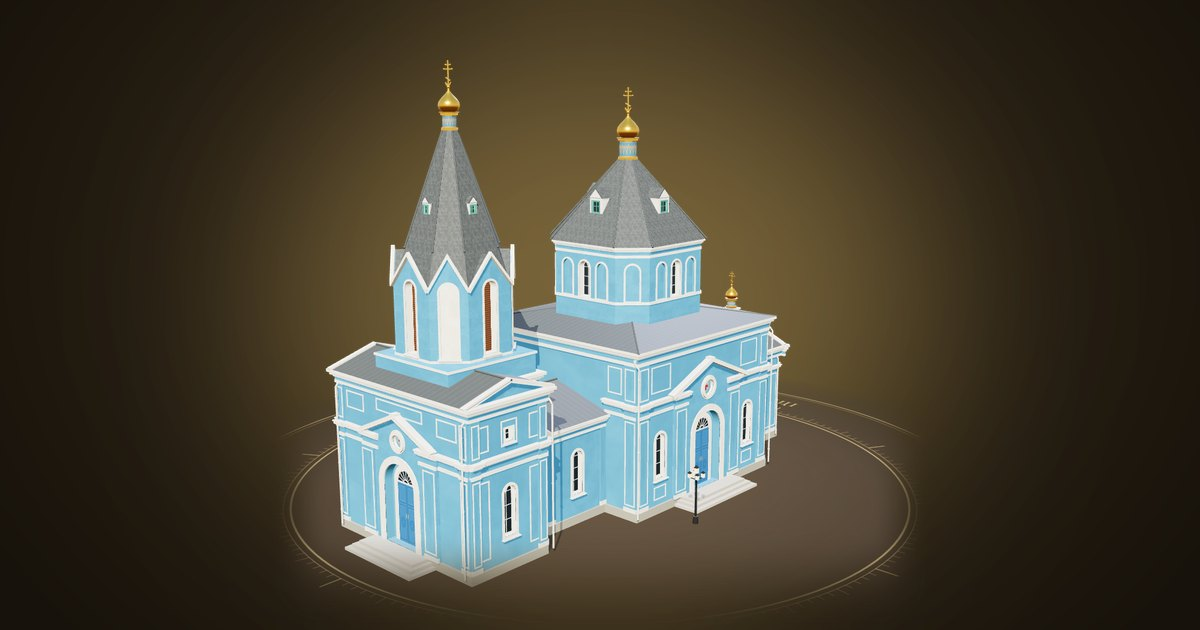
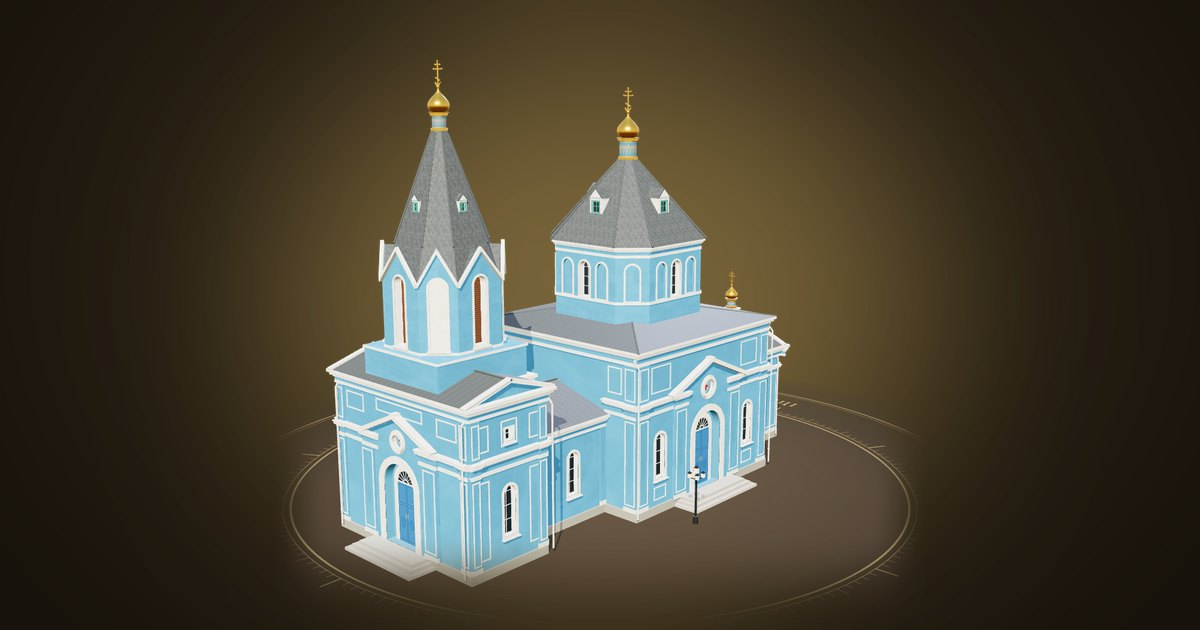
Церква 3D: дзвіниця зсунута на захід, квадратна основа над дахом притвору вища
Claude-Session: https://claude.ai/code/session_015E5VkhKKERkWtXctkqCkmF

Changed region(s): [[0.2775, 0.0905, 0.4625, 0.6333], [0.4625, 0.6937, 0.4933, 0.7841]]

diff --git a/cerkva-3d.js b/cerkva-3d.js
@@ -314,7 +314,7 @@ function dormer(g, y, w, h, d, bars){
    sanctuary 7.6 × 7.6 m with an attic band under the eaves */
 var NH = 7.5, PL = .6;
 var WX0 = -21.2, WX1 = -15.0, WH = 6.5, WC = -18.1;       // porch (6.2 m deep, measured on the 1930s photograph)
-var BX = -16.6, BQ = 3.6;                                // the bell tower's square body: its east part stands proud of the porch
+var BX = -17.4, BQ = 3.6;                                // the bell tower's square body: its east part stands proud of the porch
 var TX1 = BX + BQ;                                       // east face of the tower body; the link runs from here to the naos
 var LX1 = -7.5, LH = 4.6;                                // link
 var EX1 = 14.2, EH = 4.1;                                // sanctuary
@@ -577,7 +577,7 @@ var WK = .3, WRID = gableZ(-WH - .35, WH + .35, WC, (WX1 - WX0)/2 + .42, WE, WK)
      is skirted up to the chamfered octagon (wide faces with louvres, narrow faces with blind arches). Every gable rises the
      same height from the corners, so over the narrow faces they are steeper; the spire springs from the octagon itself, so
      between the gables only short valleys show */
-  var cx = BX, Q = BQ, sbt = 12.3, oy = 12.45, ye = 16.8, BP = {A: 3.4, c: 1.68}, GR = 2.05;   // wide faces 3.45 m, narrow 2.35 m
+  var cx = BX, Q = BQ, sbt = 12.95, oy = 13.1, ye = 17.2, BP = {A: 3.4, c: 1.68}, GR = 2.05;   // wide faces 3.45 m, narrow 2.35 m
   /* body: the part east of the porch, with corner lesenes, the porch's mid cornice and eaves entablature run round it */
   boxX(WX1, cx + Q, 0, PL, -Q - .12, Q + .12, M.plinth);
   boxX(WX1, cx + Q, PL, WW, -Q, Q, M.wall);
